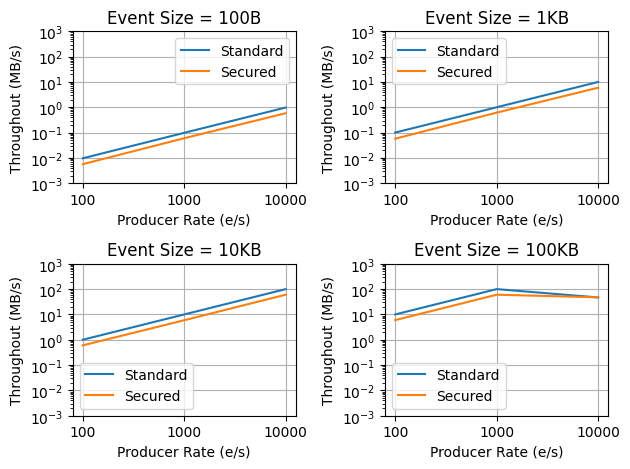
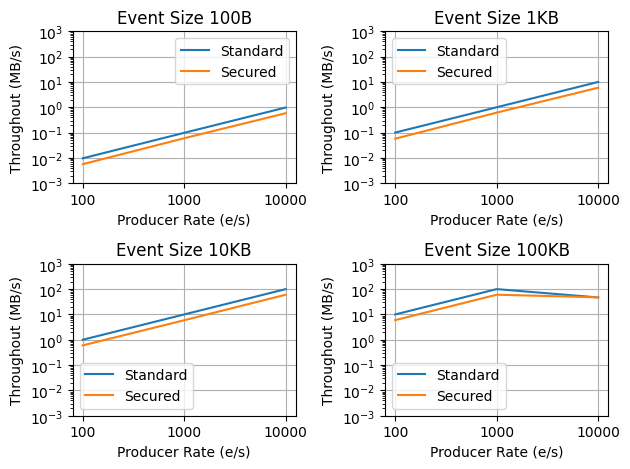
Change image title

diff --git a/plots.py b/plots.py
@@ -113,7 +113,7 @@ def subplot_cdf(data1, data2, row, title, autolimit=False):
         for j in range(2):
             labels = list(spr1[i].apply(get_label, axis=1))
             
-            lbl = 'Event Size = ' + format_label(spr1[a]['Message_Size'].iloc[0])
+            lbl = 'Event Size ' + format_label(spr1[a]['Message_Size'].iloc[0])
             axs[i][j].plot(labels, spr1[a][row], label=get_security(spr1[a]) )
             axs[i][j].plot(labels, spr2[a][row], label=get_security(spr2[a]) )
 
@@ -240,7 +240,7 @@ def throughout_subplot(data1, data2, row):
         for j in range(2):
             labels = list(spr1[i].apply(get_label, axis=1))
             
-            lbl = 'Event Size = ' + format_label(spr1[a]['Message_Size'].iloc[0])
+            lbl = 'Event Size ' + format_label(spr1[a]['Message_Size'].iloc[0])
             axs[i][j].plot(labels, spr1[a][row], label="Standard")
             axs[i][j].plot(labels, spr2[a][row], label="Secured")
 
